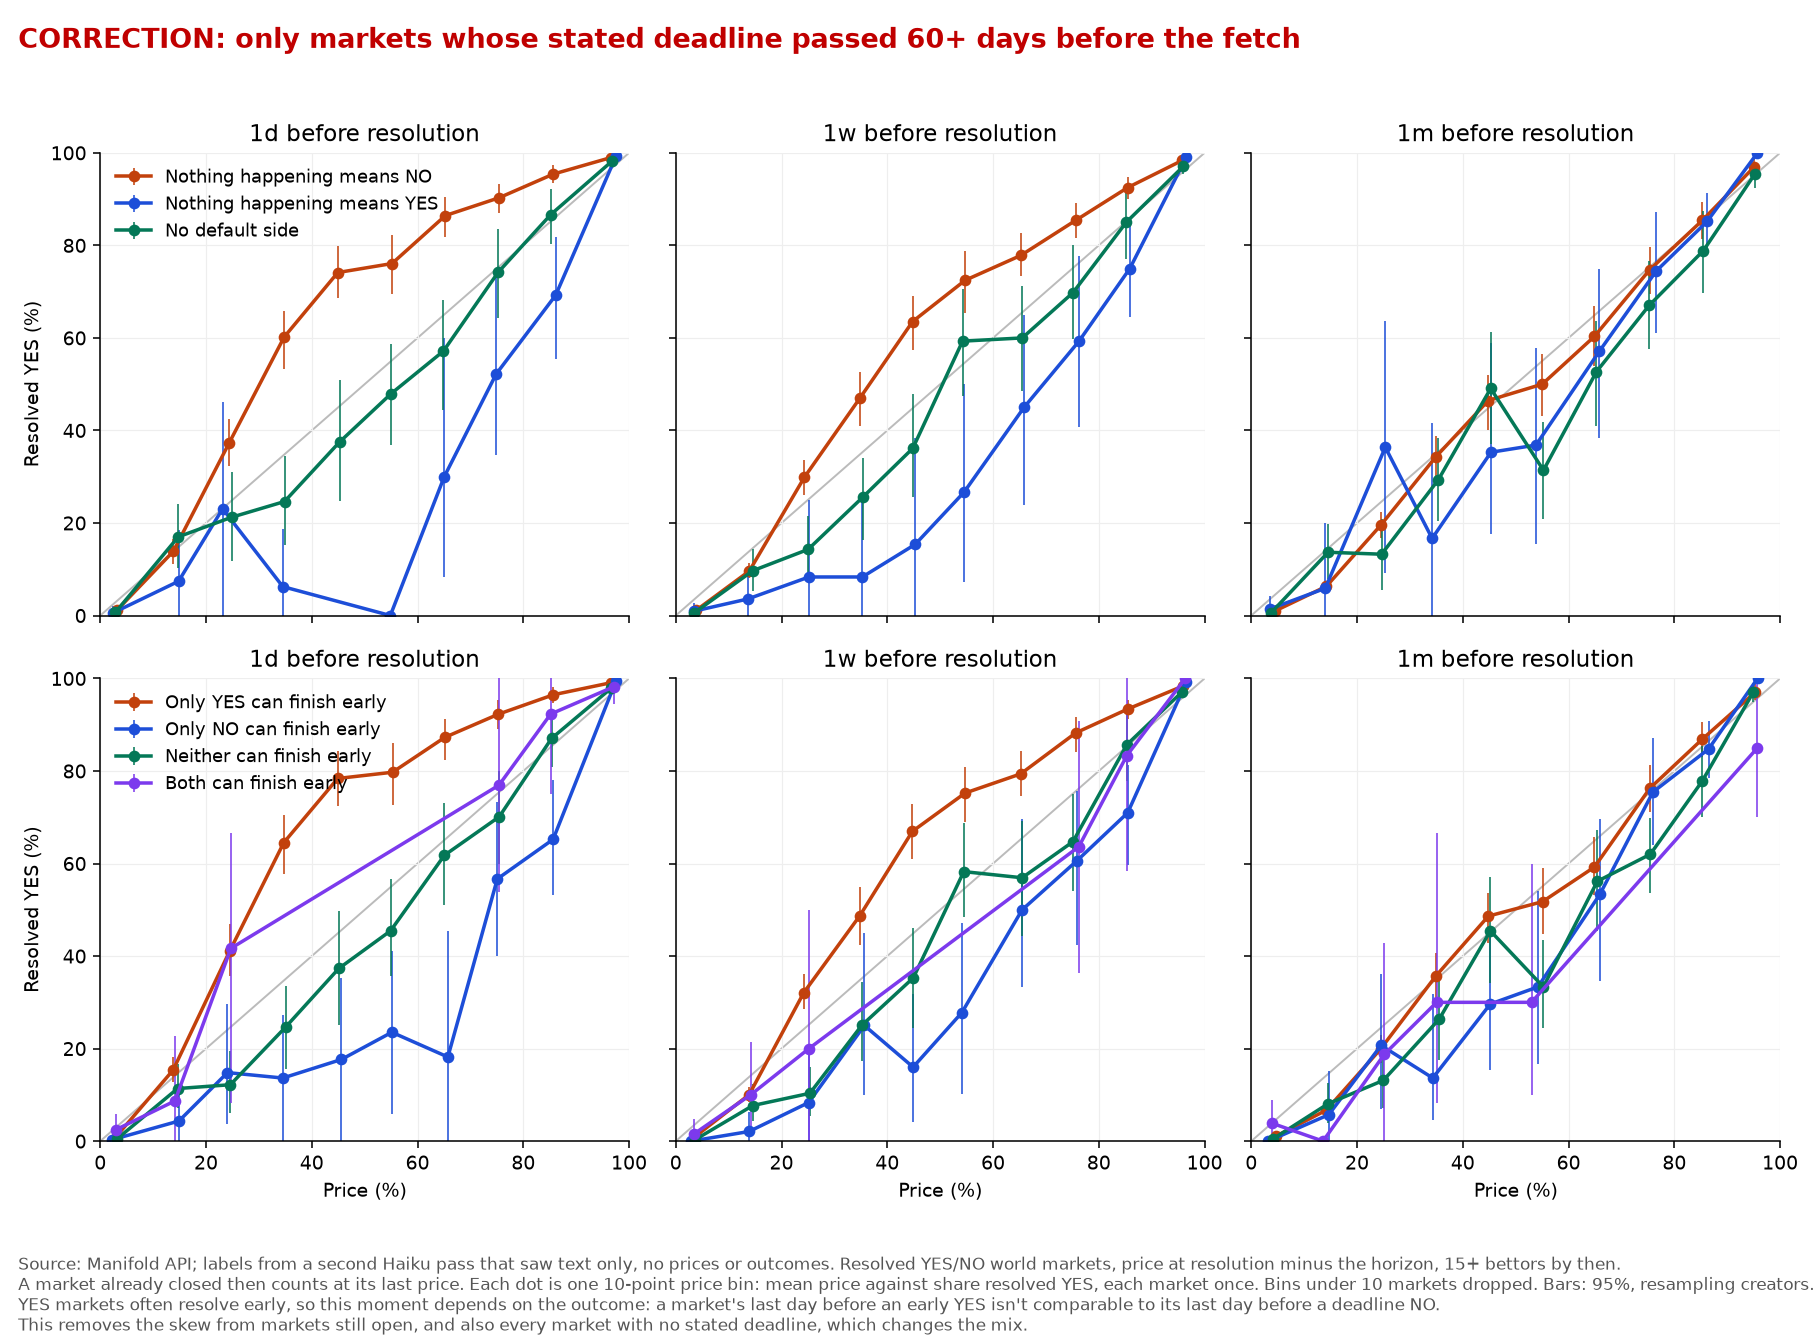
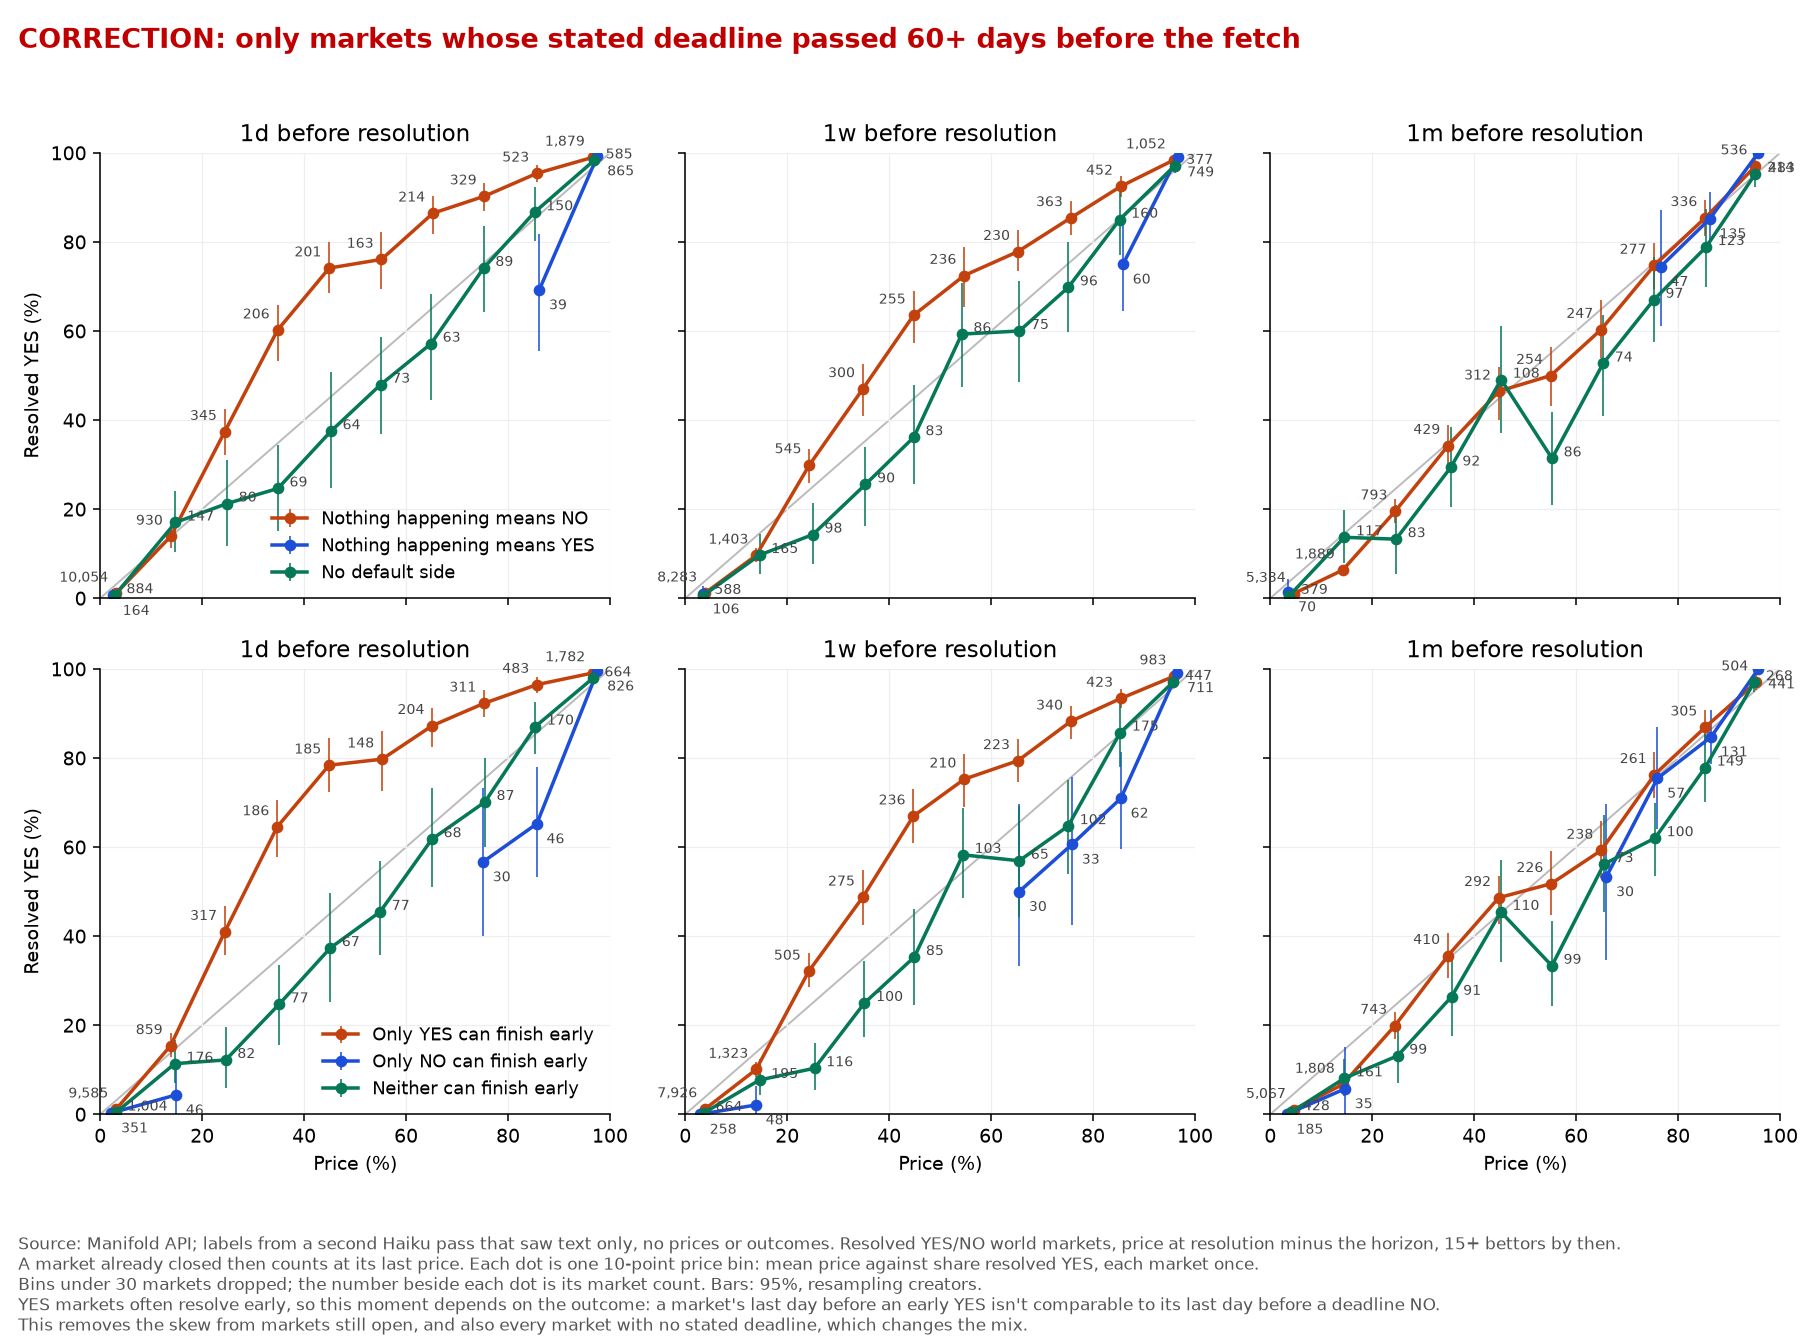
Show market counts on calibration dots and drop bins under 30 markets

diff --git a/src/second_pass_before_resolution.py b/src/second_pass_before_resolution.py
@@ -12,10 +12,10 @@ import pandas as pd
 from yes_bias import API, COLLECTED, HOURS, ROOT, boot_rate, summary
 from plot_calibration import load
 
-OUT = ROOT / "plots/second_pass"
+OUT, MIN_BIN = ROOT / "plots/second_pass", 30
 SPLITS = {"default_side": [("NO", "#c2410c", "Nothing happening means NO"), ("YES", "#1d4ed8", "Nothing happening means YES"), ("NONE", "#047857", "No default side")],
-          "early_side": [("YES_EARLY", "#c2410c", "Only YES can finish early"), ("NO_EARLY", "#1d4ed8", "Only NO can finish early"), ("NEITHER", "#047857", "Neither can finish early"), ("BOTH", "#7c3aed", "Both can finish early")]}
-HOW = "Source: Manifold API; labels from a second Haiku pass that saw text only, no prices or outcomes. Resolved YES/NO world markets, price at resolution minus the horizon, 15+ bettors by then.\nA market already closed then counts at its last price. Each dot is one 10-point price bin: mean price against share resolved YES, each market once. Bins under 10 markets dropped. Bars: 95%, resampling creators.\nYES markets often resolve early, so this moment depends on the outcome: a market's last day before an early YES isn't comparable to its last day before a deadline NO."
+          "early_side": [("YES_EARLY", "#c2410c", "Only YES can finish early"), ("NO_EARLY", "#1d4ed8", "Only NO can finish early"), ("NEITHER", "#047857", "Neither can finish early")]}
+HOW = "Source: Manifold API; labels from a second Haiku pass that saw text only, no prices or outcomes. Resolved YES/NO world markets, price at resolution minus the horizon, 15+ bettors by then.\nA market already closed then counts at its last price. Each dot is one 10-point price bin: mean price against share resolved YES, each market once.\nBins under 30 markets dropped; the number beside each dot is its market count. Bars: 95%, resampling creators.\nYES markets often resolve early, so this moment depends on the outcome: a market's last day before an early YES isn't comparable to its last day before a deadline NO."
 
 
 def frame():
@@ -41,16 +41,18 @@ def plot(bins, name, title, note, **kwargs):
             ax.grid(color="#eeeeee", lw=.6)
             ax.set(xlim=(0, 100), ylim=(0, 100), title=f"{h} before resolution")
             ax.spines[["top", "right"]].set_visible(False)
-            for side, color, label in sides:
-                b = bins[(bins.series == name) & (bins.split == split) & (bins.side == side) & (bins.horizon == h)]
+            for (side, color, label), offset in zip(sides, [(-4, 6), (5, -10), (6, 1)]):
+                b = bins[(bins.series == name) & (bins.split == split) & (bins.side == side) & (bins.horizon == h)].set_index("bin").reindex(range(10))  # a dropped bin breaks the line
                 ax.errorbar(b.price * 100, b.yes * 100, yerr=[(b.yes - b.yes_low) * 100, (b.yes_high - b.yes) * 100], color=color, marker="o", ms=5, lw=1.8, elinewidth=.8, label=label)
+                for r in b.dropna(subset="n").itertuples():
+                    ax.annotate(f"{int(r.n):,}", (r.price * 100, r.yes * 100), xytext=offset, textcoords="offset points", ha="right" if offset[0] < 0 else "left", fontsize=7, color="#444444")
         row[0].set_ylabel("Resolved YES (%)")
-        row[0].legend(frameon=False, fontsize=9, loc="upper left")
+        row[0].legend(frameon=False, fontsize=9, loc="lower right")
     for ax in axes[1]:
         ax.set_xlabel("Price (%)")
     fig.suptitle(title, x=.01, ha="left", fontsize=14, **kwargs)
     fig.text(.01, .01, HOW + note, fontsize=8.5, color="#555555")
-    fig.tight_layout(rect=(0, .09, 1, .96))
+    fig.tight_layout(rect=(0, .11, 1, .96))
     fig.savefig(OUT / f"{name}.png", dpi=140)
     plt.close(fig)
 
@@ -66,7 +68,7 @@ def main():
                     if len(x) >= 30:
                         metrics.append(dict(series=name, split=split, side=side, horizon=h, **summary(x), price_if_yes=x[x.y == 1].prob.mean(), price_if_no=x[x.y == 0].prob.mean()))
                     for b, y in x.groupby(pd.cut(x.prob, np.arange(0, 1.01, .1), include_lowest=True, labels=False)):
-                        if len(y) >= 10:
+                        if len(y) >= MIN_BIN:
                             low, high = boot_rate(y) if 0 < y.y.mean() < 1 else (np.nan, np.nan)
                             bins.append(dict(series=name, split=split, side=side, horizon=h, bin=b, n=len(y), price=y.prob.mean(), yes=y.y.mean(), yes_low=low, yes_high=high))
     bins = pd.DataFrame(bins)

diff --git a/src/second_pass_plots.py b/src/second_pass_plots.py
@@ -14,9 +14,12 @@ plt.rcParams.update({"font.size": 11, "axes.spines.top": False, "axes.spines.rig
 HOW = "Source: Manifold API; sides from a second Haiku pass that saw text only, no prices or outcomes. \nResolved YES/NO world markets, price at a fixed time after creation, 15+ bettors by then, still open then. 10-point price bins, under 10 markets dropped. Bars: 95%, resampling creators."
 
 
-def curve(ax, series, h, color, label, marker="o"):
-    b = bins[(bins.series == series) & (bins.horizon == h)]
+def curve(ax, series, h, color, label, marker="o", offset=None):
+    """With an offset, bins under 30 markets are dropped and each dot shows its market count."""
+    b = bins[(bins.series == series) & (bins.horizon == h) & (bins.n >= (30 if offset else 0))].set_index("bin").reindex(range(10))  # a dropped bin breaks the line
     ax.errorbar(b.price * 100, b.yes * 100, yerr=[(b.yes - b.yes_low) * 100, (b.yes_high - b.yes) * 100], color=color, marker=marker, ms=5, lw=1.8, elinewidth=.8, label=label)
+    for r in b.dropna(subset="n").itertuples() if offset else []:
+        ax.annotate(f"{int(r.n):,}", (r.price * 100, r.yes * 100), xytext=offset, textcoords="offset points", ha="right" if offset[0] < 0 else "left", fontsize=7, color="#444444")
 
 
 def diag(ax):
@@ -29,14 +32,14 @@ def by_side(suffix, title, note, name, **kwargs):
     fig, axes = plt.subplots(1, 3, figsize=(13, 6), sharey=True)
     for ax, h in zip(axes, ["1d", "1w", "1m"]):
         diag(ax)
-        for side, color, label in SIDES:
-            curve(ax, f"default {side}{suffix}", h, color, label)
+        for (side, color, label), offset in zip(SIDES, [(-4, 6), (5, -10), (6, 1)]):
+            curve(ax, f"default {side}{suffix}", h, color, label, offset=offset)
         ax.set_title(f"{h} after creation")
     axes[0].set_ylabel("Resolved YES (%)")
     handles, labels = axes[0].get_legend_handles_labels()
     fig.legend(handles, labels, frameon=False, loc="upper left", bbox_to_anchor=(.01, .93), ncols=3)
     fig.suptitle(title, x=.01, ha="left", fontsize=14, **kwargs)
-    fig.text(.01, .01, HOW + note, fontsize=9, color="#555555")
+    fig.text(.01, .01, HOW.replace("under 10 markets dropped. Bars", "under 30 markets dropped, the number beside each dot is its market count.\nBars") + note, fontsize=8.5, color="#555555")
     fig.tight_layout(rect=(0, .1, 1, .88))
     fig.savefig(OUT / name, dpi=140)
     plt.close(fig)
